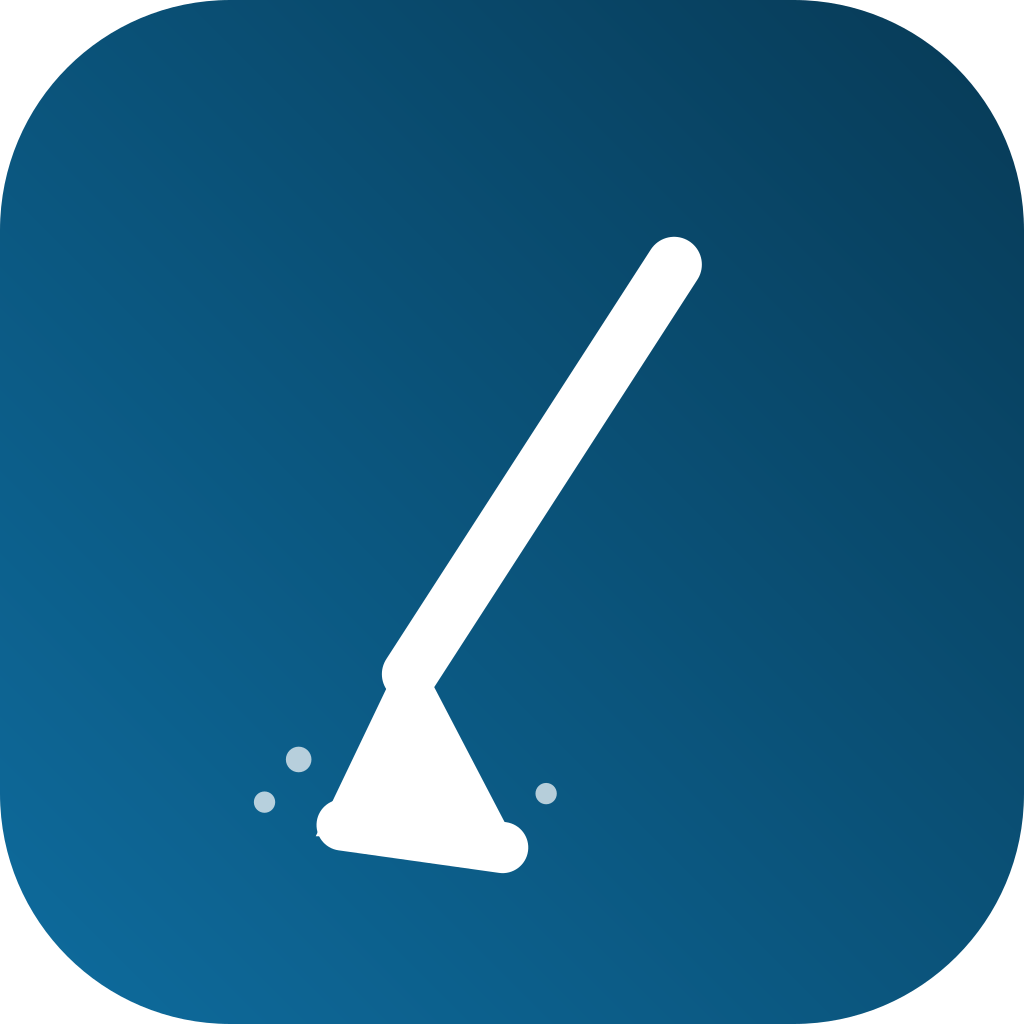
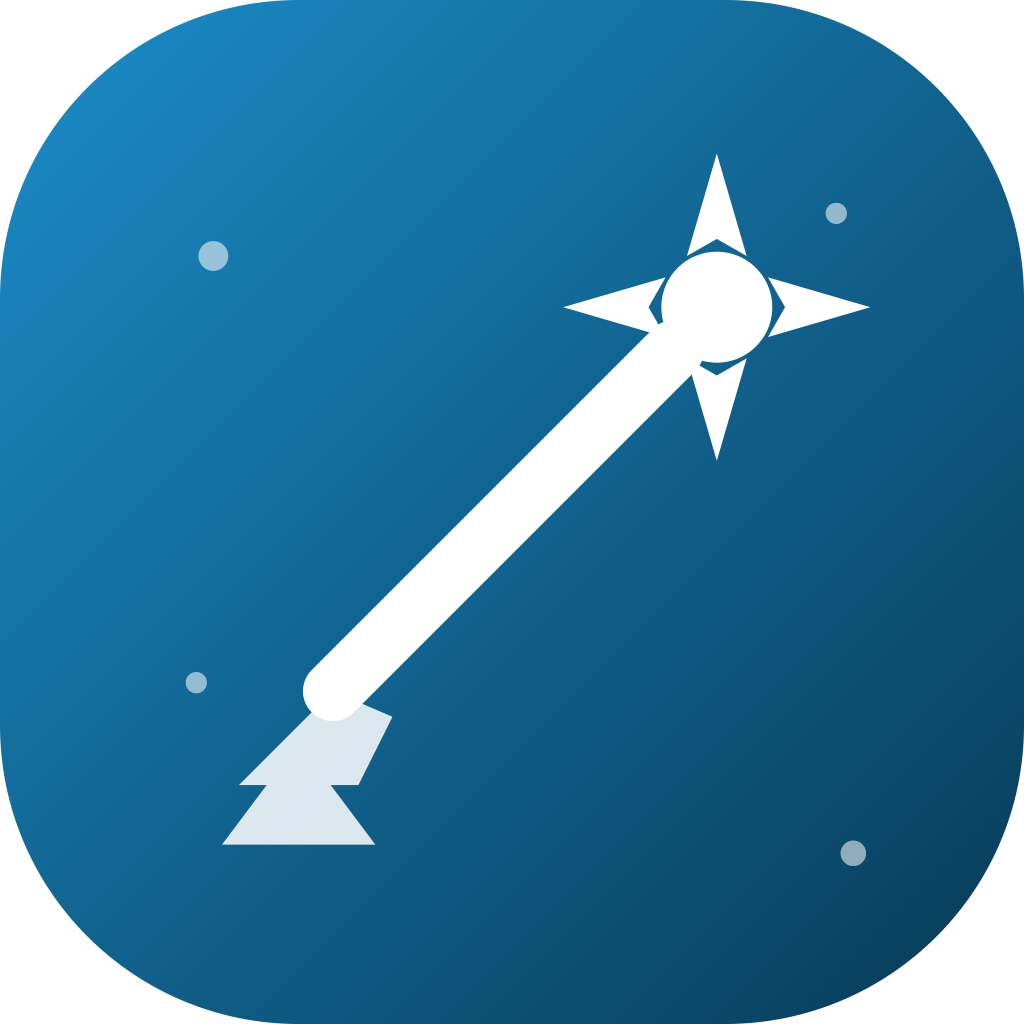
i18n 三件套：图标焕新 + skill 双语实时 + 主视图语言订阅
1. 图标：原扫帚设计 → 魔棒+星点设计（Petrol Blue 渐变），与 UI 品牌区
   wand.and.rays 小头像风格保持一致
2. SkillSpec：summary 由固化 String 改为 summaryZh/summaryEn + 计算属性，
   切换语言时再访问即拿新文案（之前在 struct init 里调 L10n.t()，那一刻
   就把语言固化成 String，再也不变）
3. MainView 加 @AppStorage('expunge.language')，DiskCard 嵌套较深时
   AppState.objectWillChange 不一定传透，这里双保险

diff --git a/Sources/Expunge/Agent/Skills/InspectSkills.swift b/Sources/Expunge/Agent/Skills/InspectSkills.swift
@@ -10,8 +10,8 @@ struct ListAppsSkill: AgentSkill {
     let spec = SkillSpec(
         name: "list_apps",
         cli: "--list",
-        summary: L10n.t("列出本机已安装的应用，可用关键词过滤。想确认某个 app 的准确名字时先调它。",
-                        "List installed apps, optionally filtered by keyword. Call this first to confirm an app's exact name."),
+        summaryZh: "列出本机已安装的应用，可用关键词过滤。想确认某个 app 的准确名字时先调它。",
+        summaryEn: "List installed apps, optionally filtered by keyword. Call this first to confirm an app's exact name.",
         args: [
             SkillArg(name: "keyword", required: false,
                      desc: L10n.t("过滤关键词，留空返回全部（截断展示）",
@@ -58,8 +58,8 @@ struct ScanAppSkill: AgentSkill {
     let spec = SkillSpec(
         name: "scan_app",
         cli: "--scan <target>",
-        summary: L10n.t("扫描某个应用留在系统里的全部痕迹（程序本体、缓存、容器、启动项、包管理器条目…），不删任何东西。",
-                        "Scan everything an app left behind (bundle, caches, containers, launch agents, package entries…). Deletes nothing."),
+        summaryZh: "扫描某个应用留在系统里的全部痕迹（程序本体、缓存、容器、启动项、包管理器条目…），不删任何东西。",
+        summaryEn: "Scan everything an app left behind (bundle, caches, containers, launch agents, package entries…). Deletes nothing.",
         args: [
             SkillArg(name: "target", required: true,
                      desc: L10n.t("应用名或关键词，如 Cursor、微信、mimo",
@@ -121,8 +121,8 @@ struct ScanLeftoversSkill: AgentSkill {
     let spec = SkillSpec(
         name: "scan_leftovers",
         cli: "--orphans",
-        summary: L10n.t("反向扫描：找已卸载应用留下的无主数据，以及已知 AI 编程工具的痕迹。结果是启发式的，默认全不勾选。",
-                        "Reverse scan for data left by uninstalled apps plus known AI coding-tool traces. Heuristic; nothing is checked by default."),
+        summaryZh: "反向扫描：找已卸载应用留下的无主数据，以及已知 AI 编程工具的痕迹。结果是启发式的，默认全不勾选。",
+        summaryEn: "Reverse scan for data left by uninstalled apps plus known AI coding-tool traces. Heuristic; nothing is checked by default.",
         args: [
             SkillArg(name: "kind", required: false,
                      desc: L10n.t("限定来源：orphan 只看无主残留，ai 只看 AI 工具，all 全要（默认）",
@@ -175,8 +175,8 @@ struct ListProcessesSkill: AgentSkill {
     let spec = SkillSpec(
         name: "list_processes",
         cli: "--ps",
-        summary: L10n.t("列出正在运行的进程（默认只看用户级后台进程，如 node / python / dev server）。只枚举，不结束任何进程。",
-                        "List running processes (user-level background ones like node / python / dev servers by default). Enumerates only; kills nothing."),
+        summaryZh: "列出正在运行的进程（默认只看用户级后台进程，如 node / python / dev server）。只枚举，不结束任何进程。",
+        summaryEn: "List running processes (user-level background ones like node / python / dev servers by default). Enumerates only; kills nothing.",
         args: [
             SkillArg(name: "filter", required: false,
                      desc: L10n.t("background 只看后台（默认）、user 含 GUI 应用、system 含系统进程",
@@ -237,8 +237,8 @@ struct ShowHistorySkill: AgentSkill {
     let spec = SkillSpec(
         name: "show_history",
         cli: "--history",
-        summary: L10n.t("查看以往的卸载记录（目标、时间、成功/失败项数、释放量）。",
-                        "Show past uninstall records (target, time, success/failure counts, space freed)."),
+        summaryZh: "查看以往的卸载记录（目标、时间、成功/失败项数、释放量）。",
+        summaryEn: "Show past uninstall records (target, time, success/failure counts, space freed).",
         args: [
             SkillArg(name: "limit", required: false,
                      desc: L10n.t("最多返回几条，默认 10", "Max entries, default 10"))

diff --git a/Sources/Expunge/Agent/Skills/PlanSkills.swift b/Sources/Expunge/Agent/Skills/PlanSkills.swift
@@ -12,8 +12,8 @@ struct ReviewPlanSkill: AgentSkill {
     let spec = SkillSpec(
         name: "review_plan",
         cli: "--review <target>",
-        summary: L10n.t("对当前清单做安全复核：挑出不该删的项（登录态、密钥、被其它应用共享的数据）并说明理由，自动取消其勾选。",
-                        "Safety-review the current list: flag items that should be kept (login state, keys, data shared with other apps), explain why, and uncheck them."),
+        summaryZh: "对当前清单做安全复核：挑出不该删的项（登录态、密钥、被其它应用共享的数据）并说明理由，自动取消其勾选。",
+        summaryEn: "Safety-review the current list: flag items that should be kept (login state, keys, data shared with other apps), explain why, and uncheck them.",
         args: [
             SkillArg(name: "scope", required: false,
                      desc: L10n.t("apps 复核应用清单（默认），leftovers 复核残留清单",
@@ -105,8 +105,8 @@ struct PlanUninstallSkill: AgentSkill {
     let spec = SkillSpec(
         name: "plan_uninstall",
         cli: "--uninstall <target> --dry-run",
-        summary: L10n.t("为卸载某个应用生成执行计划：会删哪些、共多大、哪些进废纸篓。只预演，不删除。",
-                        "Draft an uninstall plan for an app: what would be removed, how large, what goes to the Trash. Preview only, nothing is deleted."),
+        summaryZh: "为卸载某个应用生成执行计划：会删哪些、共多大、哪些进废纸篓。只预演，不删除。",
+        summaryEn: "Draft an uninstall plan for an app: what would be removed, how large, what goes to the Trash. Preview only, nothing is deleted.",
         args: [
             SkillArg(name: "target", required: true,
                      desc: L10n.t("应用名或关键词", "App name or keyword")),

diff --git a/Sources/Expunge/Agent/Skill.swift b/Sources/Expunge/Agent/Skill.swift
@@ -157,13 +157,21 @@ protocol AgentSkill {
 }
 
 /// skill 的静态声明部分。注册表靠它生成模型清单和 `--skills` 输出。
+///
+/// `summaryZh` / `summaryEn` 是双语原文，`summary` 按当前语言取 —— 不能直接
+/// 存 `summary: String` 然后在 init 里调 `L10n.t()`，那会在 struct 首次实例化
+/// 时把一种语言固化成 String，再切换语言也不变。
 struct SkillSpec {
     let name: String
     /// 对应的真实 Expunge CLI 命令（自检会核对它确实被 `--help` 收录）。
     let cli: String
-    let summary: String
+    let summaryZh: String
+    let summaryEn: String
     var args: [SkillArg] = []
     var risk: SkillRisk = .readOnly
+
+    /// 跟随客户端语言取文案。其他读取处请用这个，不要直接读 `summaryZh` / `summaryEn`。
+    var summary: String { L10n.t(summaryZh, summaryEn) }
 
     /// 生成给模型看的一行声明。
     var manifestLine: String {

diff --git a/Sources/Expunge/UI/MainView.swift b/Sources/Expunge/UI/MainView.swift
@@ -9,6 +9,9 @@ struct MainView: View {
     @EnvironmentObject var state: AppState
     @State private var showHistory = false
     @State private var showFeedback = false
+    // 直接订阅语言键 —— AppState 也会推 objectWillChange，但本视图里的 DiskCard
+    // 嵌套较深、SwiftUI 不一定传透。这里双保险：自己再观察一次，切换时强制重建。
+    @AppStorage("expunge.language") private var languageRaw: String = L10n.Language.system.rawValue
 
     var body: some View {
         // 不用 NavigationSplitView：它在 macOS 上的自动布局黑盒经常触发
